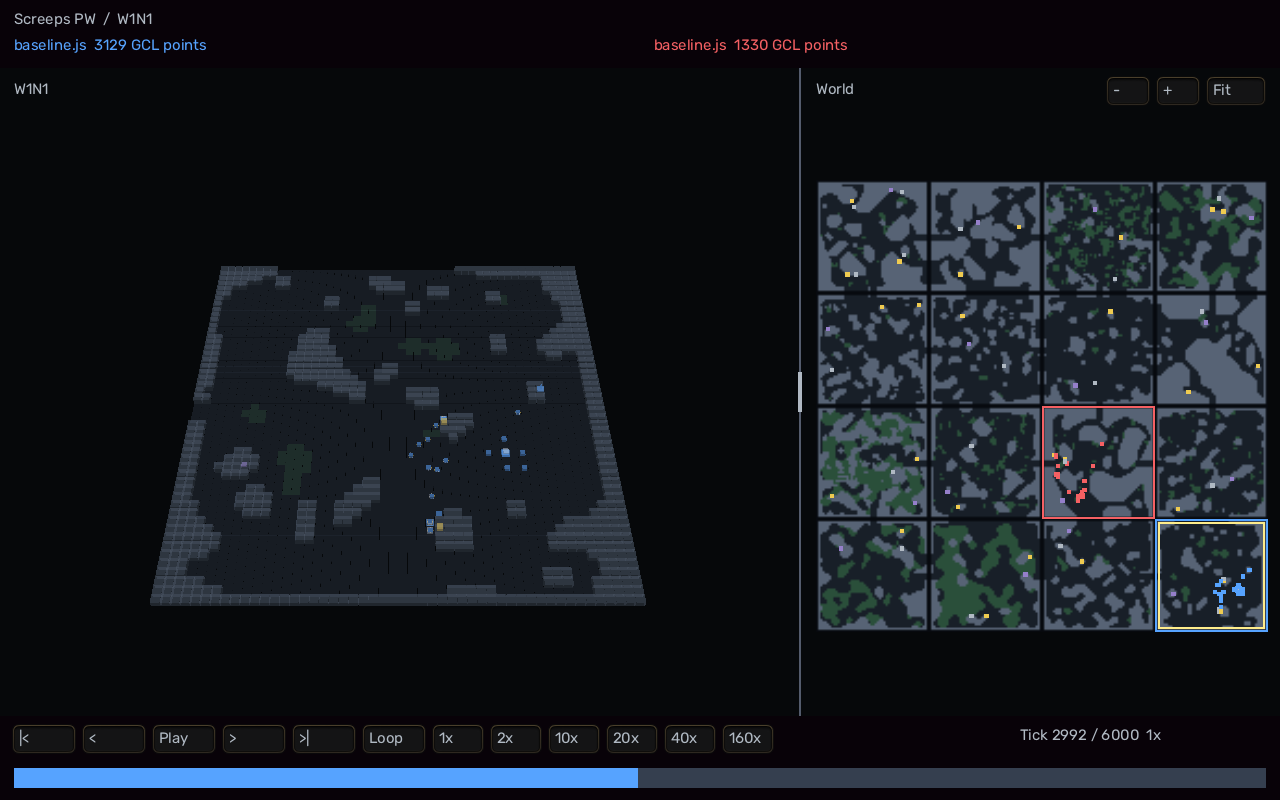
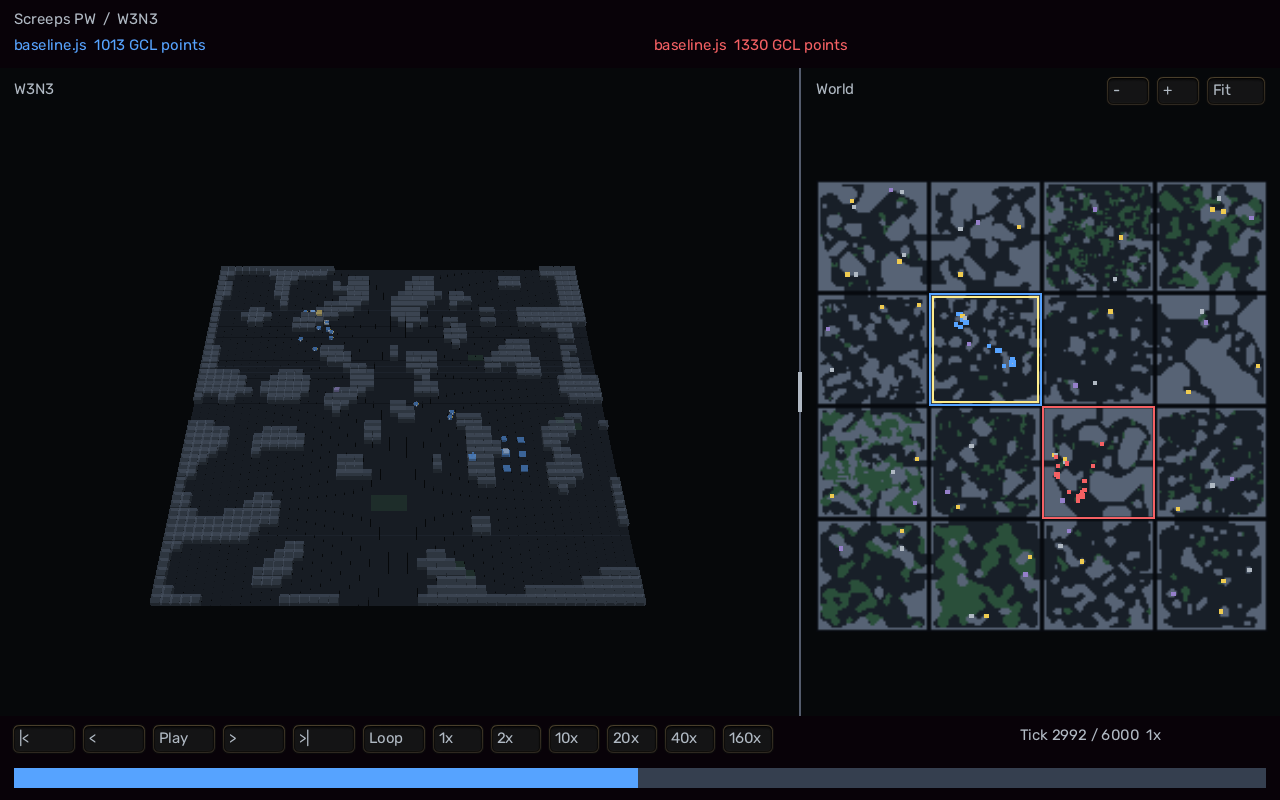
Center both players in the 4x4 world

diff --git a/coworld/VERIFICATION.md b/coworld/VERIFICATION.md
@@ -229,3 +229,35 @@ scores `[290,0]`, matching the existing certification control. Its artifacts are
 The browser checks pass against the previous full 4×4 competition replay;
 the resulting image is included at `docs/viewer.png`.
 This preparation does not upload a new Coworld or change the hosted league.
+
+## Centered starts correction — 0.1.3
+
+The starts now occupy zero-based viewer cells `(1,1)` and `(2,2)`: W3N3
+`(37,31)` and W2N2 `(17,40)`. The native terrain and 4×4 room set are retained.
+W3N3 has one native source and W2N2 has two; paired starting assignments retain
+both seat evaluations. The viewer opens the first seat's recorded starting
+spawn, so older replays continue to open their original starting room.
+
+All ten unit checks and eight disposable-engine checks pass. Native integration
+checks actual account-owned spawns against the two central cells and verifies
+travel between them. Both 300-tick and full 6,000-tick replays pass the browser
+checks. The full colony-versus-colony match scores `[2978,10031]` in 155.724
+seconds, with no policy/runtime errors. Artifacts are at
+`~/.local/share/screeps-pw/centered-duels/20261009T022042Z-0jlmmsw8/`.
+The current screenshot is `docs/viewer.png`.
+
+The rebuilt game image is
+`sha256:86729e7028aa18147cf2338ac9be8eea3737ce7847593019045711919af1dc04`.
+Local executable certification passes all ten steps, with artifacts at
+`~/.local/share/screeps-pw/certification/tmp/coworld-cert-cf96jvn5/`.
+
+Softmax passes all ten hosted certification steps and five upload smoke
+episodes. Public 0.1.3 is `cow_37c46e16-5caa-46df-8dd0-badceb64cf64`, manifest
+hash `sha256:6861fb500fedc2d1fffa51de3d7e2fda8e2a21b4d464b9e5677513a7094543da`.
+The existing league's game and canonical pointers both resolve to this package.
+Hosted smoke `ereq_307d763f-cff1-44af-882a-66634e2b528d` decodes to 600 ticks,
+16 rooms and starting rooms `[W3N3,W2N2]`. Its downloaded replay is
+`~/.local/share/screeps-pw/centered-hosted.replay`; the upload transcript is
+`~/.local/share/screeps-pw/centered-upload.log`. A new round was requested after
+verifying the canonical pointer; its acknowledgement is
+`~/.local/share/screeps-pw/centered-trigger-round.json`.

diff --git a/README.md b/README.md
@@ -41,7 +41,7 @@ CommonJS file. See the [official Screeps API](https://docs.screeps.com/api/).
 | --- | --- |
 | World | Fixed 4×4 private World: 16 rooms, W1–W4 / N1–N4, sealed outer exits |
 | Players | Two independent accounts; starter bots and their colonies removed |
-| Starts | Seat 0: W1N1 (37,31); seat 1: W2N2 (17,40), two room transitions apart |
+| Starts | Center cells (1,1) and (2,2), indexed from the viewer's top-left: seat 0 W3N3 (37,31), seat 1 W2N2 (17,40) |
 | Assets | One spawn containing 300 energy, RCL1, GCL1, empty Memory |
 | Account CPU | 20 CPU; empty initial bucket; native replenishment and execution/memory guards |
 | Duration | Exactly 6,000 completed ticks |
@@ -58,8 +58,9 @@ research-benchmark qualification gate. GCL points are cumulative account points,
 not integer GCL levels, controller levels, or current-level progress.
 The map retains the official default terrain within those 16 rooms, adds short
 three-tile-wide entrances connecting every adjacent pair, and seals the outer
-border. Both starting rooms have two
-sources. Native terrain and accessible-room caches are rebuilt before play.
+border. W3N3 has one source and W2N2 has two; paired starting assignments cover
+the native resource asymmetry. The starts are two room transitions apart.
+Native terrain and accessible-room caches are rebuilt before play.
 The seed is recorded as fixture metadata; the map is fixed and
 does not reseed native JavaScript randomness.
 
@@ -205,7 +206,7 @@ make certify
 ```
 
 Set `VERSION` for later immutable releases, for example
-`make package VERSION=0.1.2`.
+`make package VERSION=0.1.3`.
 
 Run `make deps` and `make engine` first. Packaging rebuilds the adapter on top
 of the pinned public engine runtime. Building and certifying locally do not

diff --git a/AGENTS.md b/AGENTS.md
@@ -15,6 +15,8 @@ package. It is separate from our playing bots and bot-research dashboard.
   3D Polyworld viewing, packaging, certification, and initial hosted operation.
 - Keep the MVP simple: one fixed 4×4 world. Do not add configurable map generation
   or broader game modes unless requested.
+- Start the players at zero-based viewer cells (1,1) and (2,2), the central
+  diagonal rooms W3N3 and W2N2. Do not move the starts to an outer corner.
 - Preserve existing user work. Commit, push, deploy, upload a Coworld release,
   or create/enable a hosted league only when requested.
 
